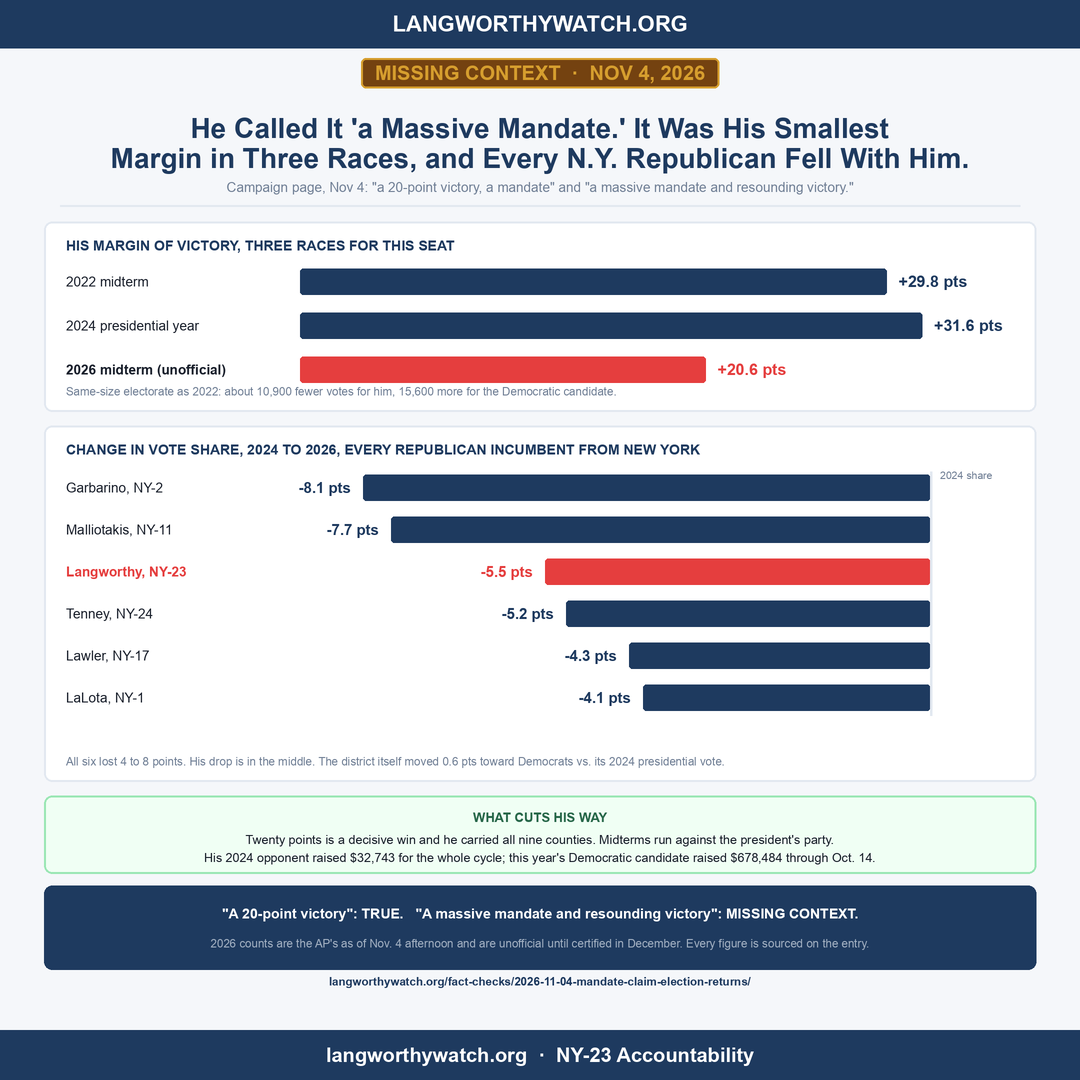
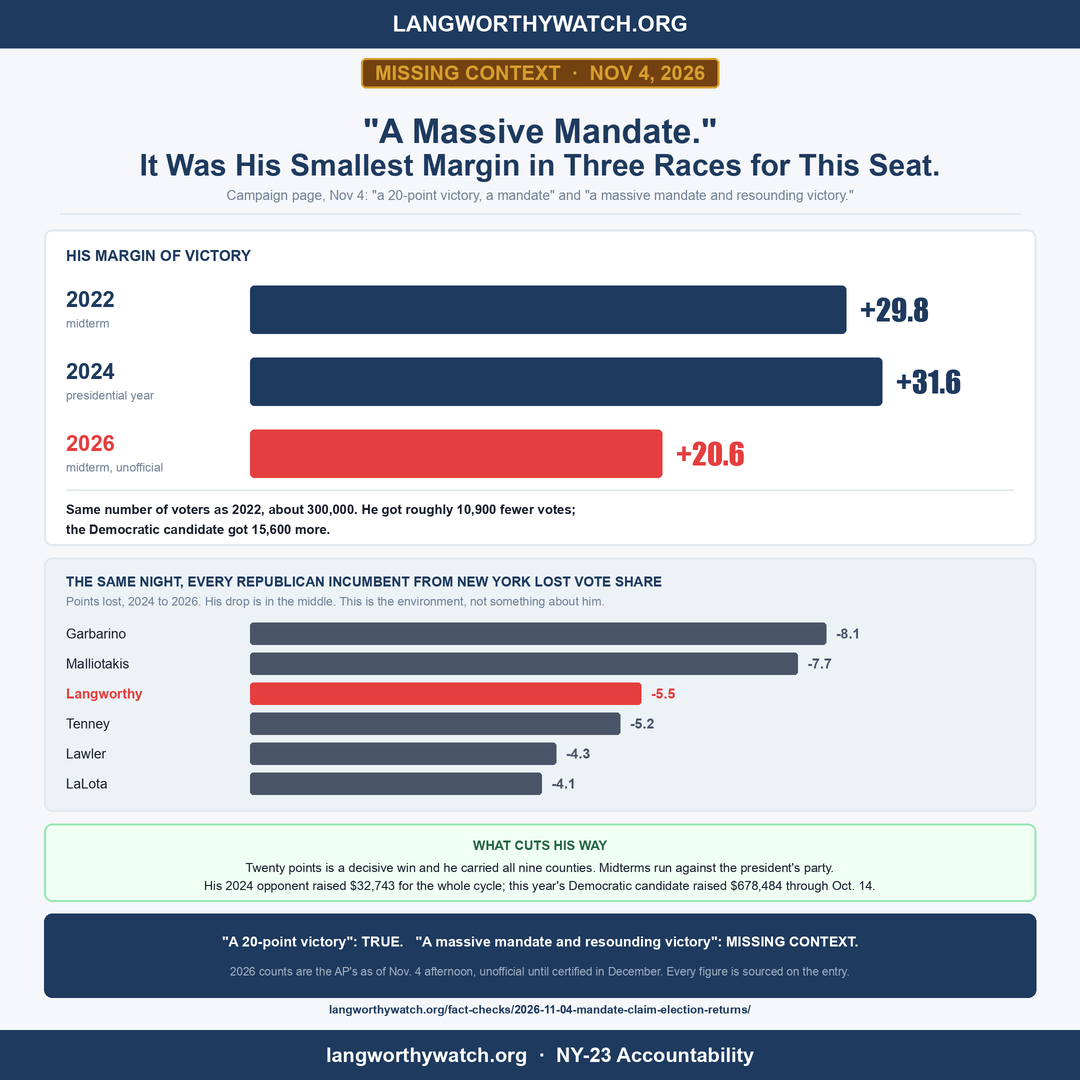
social: mandate card v2 and caption v3 (hero inverted, same-direction bars, plainer caption)

Changed region(s): [[0.0306, 0.2139, 0.9778, 0.9472], [0.0917, 0.0917, 0.8861, 0.1833]]

diff --git a/social-media/create_mandate_card.py b/social-media/create_mandate_card.py
@@ -1,5 +1,6 @@
 #!/usr/bin/env python3
 """'Massive mandate' vs. the returns, entry 2026-11-04-mandate-claim-election-returns (MISSING CONTEXT).
+v2: hero = his three margins (same direction, large); peers demoted to a slim strip in the same direction.
 Figures: certified 2022/2024 (Ballotpedia) and Times/AP unofficial 2026 counts, retained under
 research/sources/election-results-2026-11-04/."""
 import sys, os
@@ -9,58 +10,58 @@ from lib.card import (Card, NAVY, DARK, RED, GREEN, MUTED, BORDER, WHITE, LIGHTG
 c = Card(scale=2)
 c.brand_bar()
 y = c.badge(58, "MISSING CONTEXT  ·  NOV 4, 2026")
-y = c.title(y, "He Called It 'a Massive Mandate.' It Was His Smallest", size=28)
-y = c.title(y - 2, "Margin in Three Races, and Every N.Y. Republican Fell With Him.", size=28)
+y = c.title(y, "\"A Massive Mandate.\"", size=34)
+y = c.title(y - 2, "It Was His Smallest Margin in Three Races for This Seat.", size=30)
 y = c.subtitle(y + 4, "Campaign page, Nov 4: \"a 20-point victory, a mandate\" and \"a massive mandate and resounding victory.\"", size=13.5)
 y = c.divider(y + 10)
 
-# Panel 1: his margin, three races
-p1_h = 190
-c.panel(44, y, c.w - 44, y + p1_h, fill=WHITE, outline=BORDER)
-c.text(66, y + 24, "HIS MARGIN OF VICTORY, THREE RACES FOR THIS SEAT", size=14, bold=True, fill=NAVY, anchor="lm")
-rows = [("2022 midterm", 29.8, NAVY), ("2024 presidential year", 31.6, NAVY), ("2026 midterm (unofficial)", 20.6, RED)]
-x0 = 300; xmax = c.w - 150; unit = (xmax - x0) / 32.0
-ry = y + 60
-for lab, v, col in rows:
-    c.text(66, ry, lab, size=13.5, bold=(col == RED), fill=DARK, anchor="lm")
-    c.rect(x0, ry - 13, x0 + v * unit, ry + 13, fill=col, outline=None, radius=3)
-    c.text(x0 + v * unit + 12, ry, f"+{v:.1f} pts", size=16, bold=True, fill=col, anchor="lm")
-    ry += 44
-c.text(66, y + p1_h - 20, "Same-size electorate as 2022: about 10,900 fewer votes for him, 15,600 more for the Democratic candidate.", size=11.5, fill=MUTED, anchor="lm")
-y += p1_h + 14
+# HERO: his margin, three races
+h_h = 316
+c.panel(44, y, c.w - 44, y + h_h, fill=WHITE, outline=BORDER)
+c.text(66, y + 26, "HIS MARGIN OF VICTORY", size=15, bold=True, fill=NAVY, anchor="lm")
+rows = [("2022", "midterm", 29.8, NAVY), ("2024", "presidential year", 31.6, NAVY), ("2026", "midterm, unofficial", 20.6, RED)]
+x0 = 250; xmax = c.w - 190; unit = (xmax - x0) / 32.0
+ry = y + 80
+for yr, lab, v, col in rows:
+    c.text(66, ry - 10, yr, size=22, bold=True, fill=col, anchor="lm")
+    c.text(66, ry + 14, lab, size=12, fill=MUTED, anchor="lm")
+    c.rect(x0, ry - 24, x0 + v * unit, ry + 24, fill=col, outline=None, radius=4)
+    c.text(x0 + v * unit + 14, ry, f"+{v:.1f}", size=30, impact=True, fill=col, anchor="lm")
+    ry += 72
+c.rect(66, y + h_h - 56, c.w - 66, y + h_h - 55, fill=BORDER, outline=None)
+c.text(66, y + h_h - 36, "Same number of voters as 2022, about 300,000. He got roughly 10,900 fewer votes;", size=13, bold=True, fill=DARK, anchor="lm")
+c.text(66, y + h_h - 16, "the Democratic candidate got 15,600 more.", size=13, bold=True, fill=DARK, anchor="lm")
+y += h_h + 12
 
-# Panel 2: every NY Republican incumbent, change in share 2024 -> 2026
-p2_h = 356
-c.panel(44, y, c.w - 44, y + p2_h, fill=WHITE, outline=BORDER)
-c.text(66, y + 24, "CHANGE IN VOTE SHARE, 2024 TO 2026, EVERY REPUBLICAN INCUMBENT FROM NEW YORK", size=14, bold=True, fill=NAVY, anchor="lm")
-peers = [("Garbarino, NY-2", -8.1), ("Malliotakis, NY-11", -7.7), ("Langworthy, NY-23", -5.5), ("Tenney, NY-24", -5.2),
-         ("Lawler, NY-17", -4.3), ("LaLota, NY-1", -4.1)]
-zero = c.w - 150; unit2 = (zero - 300) / 9.0
-ry = y + 62
+# STRIP: every NY Republican incumbent, drop in share, same direction (bars grow right = bigger drop)
+s_h = 254
+c.panel(44, y, c.w - 44, y + s_h, fill="#EDF2F7", outline=BORDER)
+c.text(66, y + 24, "THE SAME NIGHT, EVERY REPUBLICAN INCUMBENT FROM NEW YORK LOST VOTE SHARE", size=13.5, bold=True, fill=NAVY, anchor="lm")
+c.text(66, y + 44, "Points lost, 2024 to 2026. His drop is in the middle. This is the environment, not something about him.", size=12, fill=MUTED, anchor="lm")
+peers = [("Garbarino", 8.1), ("Malliotakis", 7.7), ("Langworthy", 5.5), ("Tenney", 5.2), ("Lawler", 4.3), ("LaLota", 4.1)]
+px0 = 250; punit = (c.w - 190 - px0) / 9.0
+ry = y + 76
 for lab, v in peers:
-    him = "Langworthy" in lab
-    col = RED if him else NAVY
+    him = lab == "Langworthy"
+    col = RED if him else "#4A5568"
     c.text(66, ry, lab, size=13.5, bold=him, fill=col if him else DARK, anchor="lm")
-    c.rect(zero + v * unit2, ry - 13, zero, ry + 13, fill=col, outline=None, radius=3)
-    c.text(zero + v * unit2 - 12, ry, f"{v:.1f} pts", size=15, bold=True, fill=col, anchor="rm")
-    ry += 42
-c.rect(zero, y + 46, zero + 2, ry - 24, fill=BORDER, outline=None)
-c.text(zero + 10, y + 46, "2024 share", size=10.5, fill=MUTED, anchor="lt")
-c.text(66, y + p2_h - 20, "All six lost 4 to 8 points. His drop is in the middle. The district itself moved 0.6 pts toward Democrats vs. its 2024 presidential vote.", size=11.5, fill=MUTED, anchor="lm")
-y += p2_h + 14
+    c.rect(px0, ry - 11, px0 + v * punit, ry + 11, fill=col, outline=None, radius=3)
+    c.text(px0 + v * punit + 10, ry, f"-{v:.1f}", size=14, bold=True, fill=col, anchor="lm")
+    ry += 30
+y += s_h + 12
 
 # Fair-case strip
-s_h = 78
-c.panel(44, y, c.w - 44, y + s_h, fill="#F0FFF4", outline="#9AE6B4")
+f_h = 78
+c.panel(44, y, c.w - 44, y + f_h, fill="#F0FFF4", outline="#9AE6B4")
 c.text(c.w / 2, y + 22, "WHAT CUTS HIS WAY", size=13, bold=True, fill=GREEN, anchor="mm")
 c.text(c.w / 2, y + 44, "Twenty points is a decisive win and he carried all nine counties. Midterms run against the president's party.", size=12.5, fill=DARK, anchor="mm")
 c.text(c.w / 2, y + 62, "His 2024 opponent raised $32,743 for the whole cycle; this year's Democratic candidate raised $678,484 through Oct. 14.", size=12.5, fill=DARK, anchor="mm")
-y += s_h + 12
+y += f_h + 12
 
 k_h = 84
 c.panel(44, y, c.w - 44, y + k_h, fill=NAVY, outline=None)
 c.text(c.w / 2, y + 28, "\"A 20-point victory\": TRUE.   \"A massive mandate and resounding victory\": MISSING CONTEXT.", size=14, bold=True, fill=WHITE, anchor="mm")
-c.text(c.w / 2, y + 58, "2026 counts are the AP's as of Nov. 4 afternoon and are unofficial until certified in December. Every figure is sourced on the entry.", size=11.5, fill=LIGHTGRAY, anchor="mm")
+c.text(c.w / 2, y + 58, "2026 counts are the AP's as of Nov. 4 afternoon, unofficial until certified in December. Every figure is sourced on the entry.", size=11.5, fill=LIGHTGRAY, anchor="mm")
 y += k_h + 12
 c.text(c.w / 2, y, "langworthywatch.org/fact-checks/2026-11-04-mandate-claim-election-returns/", size=11.5, bold=True, fill=NAVY, anchor="mm")
 assert y < 1080 - 50 - 6, y

diff --git a/social-media/mandate_post.md b/social-media/mandate_post.md
@@ -1,17 +1,17 @@
-# DRAFT Nov 4, 2026 v2 (minority line in, speech-quote bullet out) (entry 2026-11-04-mandate-claim-election-returns, MISSING CONTEXT)
-# Card: mandate_card.png (create_mandate_card.py)
+# DRAFT Nov 4, 2026 v3 (rebuilt: hero inverted on the card; names and jargon out of the caption) (entry 2026-11-04-mandate-claim-election-returns, MISSING CONTEXT)
+# Card: mandate_card.png (create_mandate_card.py, v2)
 
 He called it "a massive mandate and resounding victory." It was his smallest margin and lowest share in three races for this seat. Every Republican incumbent from New York dropped the same night, and he landed in the middle of them.
 
 VERDICT: "A 20-point victory" TRUE. "A massive mandate" MISSING CONTEXT.
 
 → The returns, unofficial until certified: 60.3 percent to 39.7, a 20.6-point margin. In 2022 he won by 29.8. In 2024 by 31.6.
-→ The 2022 and 2026 electorates were almost the same size, about 300,000 votes. In that same-size electorate he got roughly 10,900 fewer votes than four years ago and the Democratic candidate got 15,600 more.
+→ Same number of voters as 2022, about 300,000. He got roughly 10,900 fewer votes than four years ago. The Democratic candidate got 15,600 more.
 → The district did not change. The Times' comparison puts it 0.6 points more Democratic than its 2024 presidential vote. He ran about 10 points ahead of that baseline in 2024 and even with it this year.
-→ Every Republican incumbent from New York lost between 4 and 8 points of vote share: Garbarino 8.1, Malliotakis 7.7, Langworthy 5.5, Tenney 5.2, Lawler 4.3, LaLota 4.1. His drop is neither the worst nor the best. It is the environment.
-→ His party lost the House and the Senate the same night. In January he serves in the minority, without the Rules Committee's control of the floor.
+→ Every Republican incumbent from New York lost between 4 and 8 points of vote share. His 5.5 is the middle of the pack. That is the environment, not something about him.
+→ His party lost the House and the Senate the same night. In January he serves in the minority, and his seat on the committee that decides what the House votes on stops deciding it.
 
-What cuts his way, and it is real: 20 points is a decisive win, he carried all nine counties, midterms usually run against the president's party, and his 2024 opponent raised $32,743 for the whole cycle against $678,484 for this year's Democratic candidate through October 14. A contested race produces a smaller margin than an uncontested one.
+What cuts his way, and it is real: 20 points is a decisive win, he carried all nine counties, and midterms usually run against the president's party. His 2024 opponent raised $32,743 for the whole cycle. This year's Democratic candidate raised $678,484 through October 14. A contested race produces a smaller margin than an uncontested one.
 
 What the record does not support is "massive" and "resounding" as comparisons with what came before. By every available measure, this was smaller.
 
